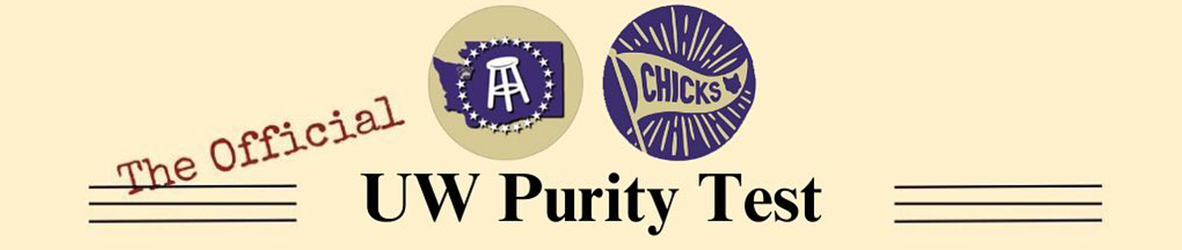
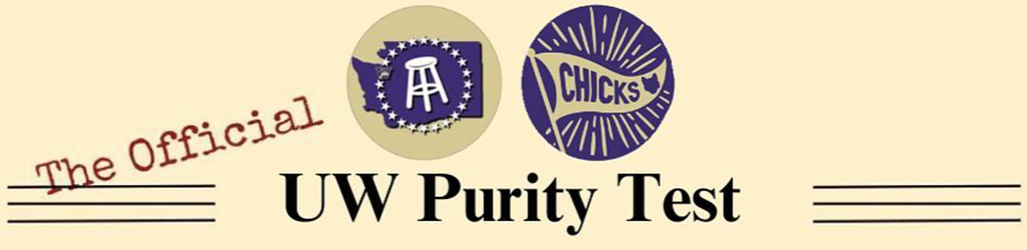
make image center better

diff --git a/index.html b/index.html
@@ -1,38 +1,13 @@
 <!DOCTYPE html>
 <html>
         
-    <head>
-        <!-- Google tag (gtag.js) -->
-        <script async src="https://www.googletagmanager.com/gtag/js?id=G-ZW9TZJ46CP"></script>
-        <script>
-          window.dataLayer = window.dataLayer || [];
-          function gtag(){dataLayer.push(arguments);}
-          gtag('js', new Date());
-
-          gtag('config', 'G-ZW9TZJ46CP');
-        </script>
-            
+    <head>            
         <!-- META -->
         <meta name="viewport" content="width=device-width, initial-scale=1">
       
         <!-- SCRIPTS -->
         <!-- JQuery -->
         <script type="text/javascript" src="https://ajax.googleapis.com/ajax/libs/jquery/1.7.2/jquery.min.js"></script>
-
-        <!-- Ads -->
-        <script async src="//pagead2.googlesyndication.com/pagead/js/adsbygoogle.js"></script>
-
-        <!-- Google Analytics -->
-        <script>
-            (function(i,s,o,g,r,a,m){i['GoogleAnalyticsObject']=r;i[r]=i[r]||function(){
-            (i[r].q=i[r].q||[]).push(arguments)},i[r].l=1*new Date();a=s.createElement(o),
-            m=s.getElementsByTagName(o)[0];a.async=1;a.src=g;m.parentNode.insertBefore(a,m)
-            })(window,document,'script','https://www.google-analytics.com/analytics.js','ga');
-
-            ga('create', 'UA-72303300-2', 'auto');
-            ga('send', 'pageview');
-            ga('set', 'transport', 'beacon');
-        </script>
          
         <!-- Title -->
         <title>UW Purity Test</title>
@@ -74,34 +49,11 @@
         
         </style>
 
-
-        <!-- Purity Test 1 (link) -->
-        <ins class="adsbygoogle"
-            style="display:block"
-            data-ad-client="ca-pub-3772914411949506"
-            data-ad-slot="3050489470"
-            data-ad-format="link"></ins>
-        <script>
-        (adsbygoogle = window.adsbygoogle || []).push({});
-        </script>
-        
-        <!-- Google Analytics -->
-        <script type="text/javascript">
-            var _gaq = _gaq || [];
-            _gaq.push(['_setAccount', 'UA-34096079-1']);
-            _gaq.push(['_trackPageview']);
-            (function() {
-                var ga = document.createElement('script'); ga.type = 'text/javascript'; ga.async = true;
-                ga.src = ('https:' == document.location.protocol ? 'https://ssl' : 'http://www') + '.google-analytics.com/ga.js';
-                var s = document.getElementsByTagName('script')[0]; s.parentNode.insertBefore(ga, s);
-            })();
-        </script>
-
     </head>
     
     <body>
         <p>
-            <p><img src="thresherOfficial.png" width="600" height="128"></p>
+            <p><img src="thresherOfficial.png" width="600" height="auto"></p>
             <div id="toHide">
                 <p><strong>Caution: This is not a bucket list. True UW Students will have a score of 0 after graduation. Completion of all items on this list should be taken seriously.</strong></p>
                 <br />
